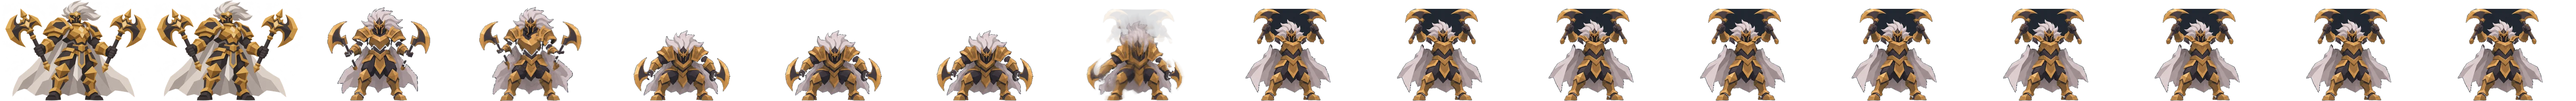
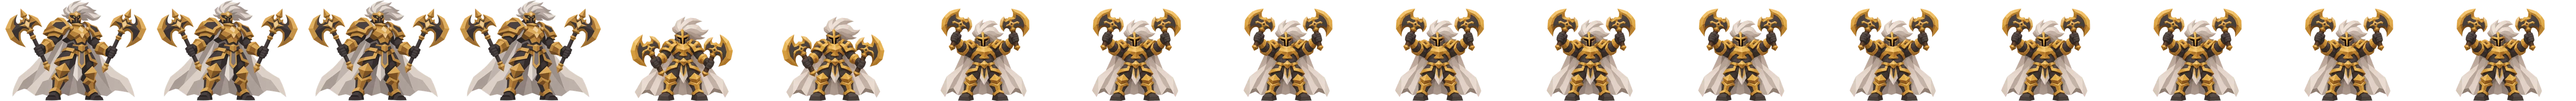
Refresh Khan attacks, repair Ivory sprite, and add Vael cloud floor

diff --git a/src/client/lib/imagePlaceholders.generated.ts b/src/client/lib/imagePlaceholders.generated.ts
@@ -26,6 +26,7 @@ export const IMAGE_PLACEHOLDERS: Readonly<Record<string, ImagePlaceholder>> = {
[7 lines of base64/hex data omitted]
@@ -58,6 +59,7 @@ export const IMAGE_PLACEHOLDERS: Readonly<Record<string, ImagePlaceholder>> = {
[7 lines of base64/hex data omitted]
@@ -96,6 +98,7 @@ export const IMAGE_PLACEHOLDERS: Readonly<Record<string, ImagePlaceholder>> = {
[7 lines of base64/hex data omitted]

diff --git a/src/client/components/game/combat/HeroOnField.tsx b/src/client/components/game/combat/HeroOnField.tsx
@@ -517,12 +517,14 @@ export const HeroOnField = ({
                       key={secondPhase ? 'cerviel-phase-two' : lastHitId ?? 'steady'}
                       className={`h-full w-full origin-bottom ${lastHitId === null ? '' : 'animate-flinch'} ${unit.statuses.cloak > 0 ? 'opacity-45' : ''}`}
                     >
-                      {secondPhase ? <CervielSecondPhase action={action} uid={unit.uid} /> : <HeroFigure
-                        heroId={unit.heroId}
-                        size={size}
-                        action={action}
-                        mood={mood}
-                      />}
+                      <div className={`h-full w-full origin-bottom ${unit.heroId === 'ivoryWerewolf' ? 'scale-200 pointer-events-none' : ''}`}>
+                        {secondPhase ? <CervielSecondPhase action={action} uid={unit.uid} /> : <HeroFigure
+                          heroId={unit.heroId}
+                          size={size}
+                          action={action}
+                          mood={mood}
+                        />}
+                      </div>
                     </div>
                     </div>
                   </div>

diff --git a/src/client/content/bossArenas.ts b/src/client/content/bossArenas.ts
@@ -13,7 +13,7 @@ import scene8 from '../assets/terrain/boss/cambiel-gilded-eclipse.webp';
 import scene9 from '../assets/terrain/boss/geonosis-glacier-chapel.webp';
 import scene10 from '../assets/terrain/boss/raziel-veiled-scriptorium.webp';
 import scene11 from '../assets/terrain/boss/holy-dragon-sunspire-aerie.webp';
-import scene12 from '../assets/terrain/boss/vael-thunder-gorge.webp';
+import scene12 from '../assets/terrain/boss/vael-thunder-gorge-cloud-floor.webp';
 import scene13 from '../assets/terrain/boss/holy-king-crown-basilica.webp';
 
 import slothArena from '../assets/terrain/cave.webp';

diff --git a/docs/BOSS_WORKFLOW.md b/docs/BOSS_WORKFLOW.md
@@ -48,7 +48,7 @@ Use a **layered rig** when the original art should stay intact and the action ca
 
 ### Preview and export WebP
 
-- Send a 24 fps preview with the full character in frame. Use MP4 for exact cadence or GIF for quick review. Check that attack clips return to neutral and that idle loops have no visible seam. Resolve art corrections before replacing the live asset.
+- Send a 24 fps preview with the full character in frame. Generate character poses on transparent backgrounds. Deliver character GIFs with real transparency from the first review; don't bake in a matte, checkerboard, or scenery. An optional MP4 can show exact cadence against a test backdrop. Check that attacks return to neutral and idle loops have no visible seam.
 - Export the checked sequence as a transparent WebP sprite strip or animated WebP, matching the playback component. Put the game asset under `src/client/assets/heroes/`, keep the static neutral sprite, and retain the editable source and GIF outside the runtime bundle.
 - Decode the final WebP to verify transparency, frame count and order, dimensions, file size, and timing. Attacks should play once and return to idle; ambient or idle clips may loop. Use a stable static sprite for reduced motion.
 
